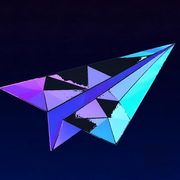
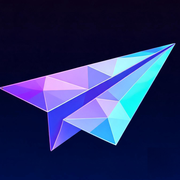
fix: preserve original airplane colors, no black patches, clean watermark removal

diff --git a/index.html b/index.html
@@ -7,13 +7,13 @@
 <meta name="apple-mobile-web-app-status-bar-style" content="default">
 <meta name="theme-color" content="#07090F">
 <meta name="apple-mobile-web-app-title" content="旅行英语">
-<link rel="apple-touch-icon" sizes="180x180" href="apple-touch-icon.png?v7">
-<link rel="apple-touch-icon" sizes="120x120" href="apple-touch-icon.png?v7">
-<link rel="apple-touch-icon" sizes="152x152" href="apple-touch-icon.png?v7">
-<link rel="apple-touch-icon" sizes="167x167" href="apple-touch-icon.png?v7">
-<link rel="icon" type="image/png" sizes="192x192" href="icon-192.png?v7">
-<link rel="icon" type="image/png" sizes="512x512" href="icon-512.png?v7">
-<link rel="icon" type="image/png" sizes="32x32" href="favicon-32.png?v7">
+<link rel="apple-touch-icon" sizes="180x180" href="apple-touch-icon.png?v8">
+<link rel="apple-touch-icon" sizes="120x120" href="apple-touch-icon.png?v8">
+<link rel="apple-touch-icon" sizes="152x152" href="apple-touch-icon.png?v8">
+<link rel="apple-touch-icon" sizes="167x167" href="apple-touch-icon.png?v8">
+<link rel="icon" type="image/png" sizes="192x192" href="icon-192.png?v8">
+<link rel="icon" type="image/png" sizes="512x512" href="icon-512.png?v8">
+<link rel="icon" type="image/png" sizes="32x32" href="favicon-32.png?v8">
 <title>旅行英语 · 38天计划</title>
 <link href="https://fonts.googleapis.com/css2?family=Inter:wght@400;500;600;700;800;900&family=Plus+Jakarta+Sans:wght@500;600;700;800&display=swap" rel="stylesheet">
 <style>
